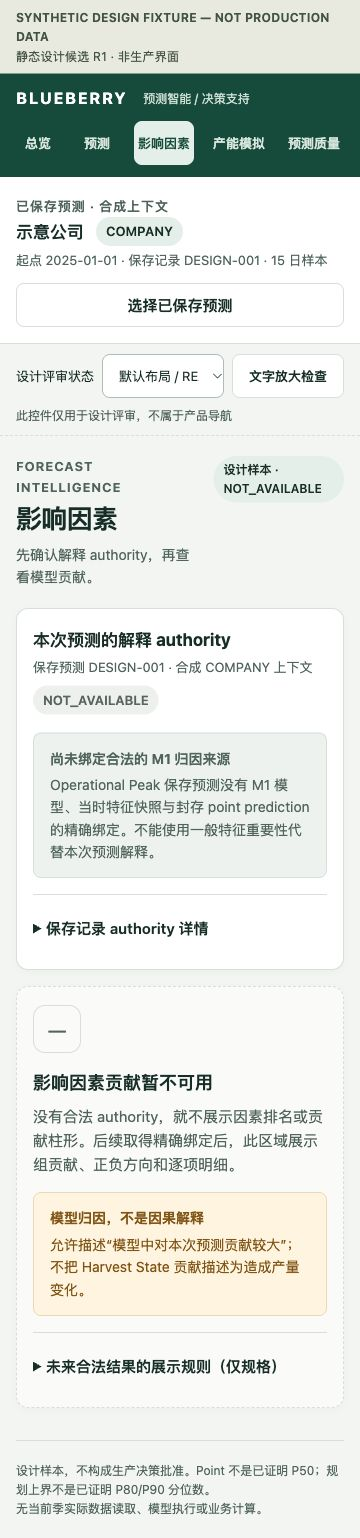
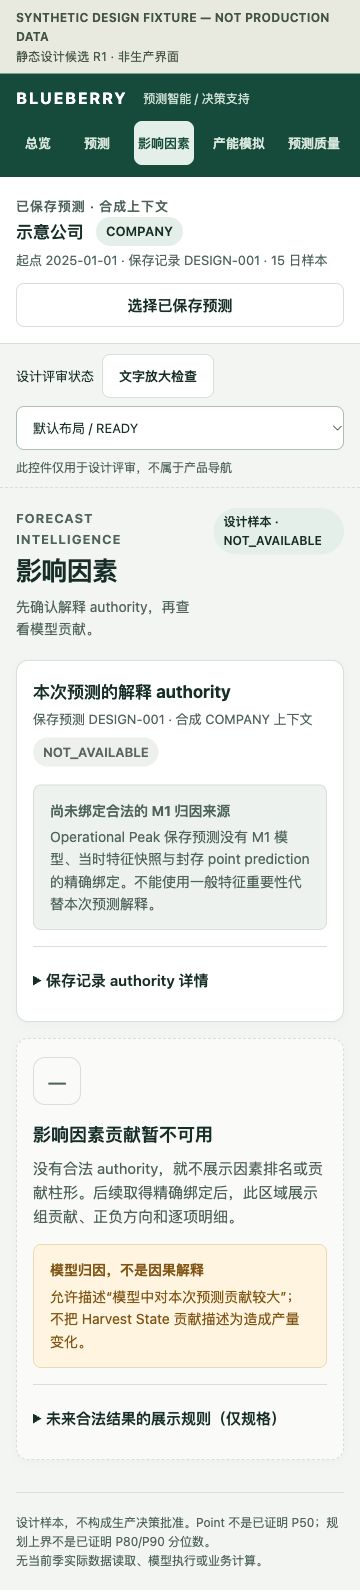
docs(v0.17): keep mobile design state labels fully readable

diff --git a/docs/v0-17/design/s4/prototype/styles.css b/docs/v0-17/design/s4/prototype/styles.css
@@ -3,7 +3,7 @@
 @media(max-width:1099px){.shell{display:block}.sidebar{width:100%;padding:12px 24px;display:block}.brand{display:flex;gap:16px;align-items:center;padding:0 0 10px}.brand b{font-size:16px}.sidebar-note{display:none}nav{display:flex;gap:8px}nav a{padding:9px 16px;min-height:44px}.nav-index{display:none}.context{padding:20px 24px}.review-bar{padding:10px 24px}main{padding:24px}.kpi{padding:16px}.kpi-value{font-size:28px}.columns{gap:16px}.panel{padding:20px}}
 @media(max-width:699px){.design-label{padding:8px 16px;font-size:12px}.design-label span{float:none;display:block}.sidebar{padding:12px 16px}.brand span{font-size:12px}nav{justify-content:space-between;gap:0}nav a{padding:9px 4px;font-size:13px;justify-content:center;min-width:44px}.context{padding:16px;display:block}.context button{margin-top:12px;width:100%}.context-title{font-size:17px}.review-bar{padding:10px 16px;flex-wrap:wrap;gap:8px}.review-bar span{flex-basis:100%;font-size:12px}.review-bar select{flex:1;max-width:none;min-width:0}main{padding:20px 16px}.page-heading{margin-bottom:20px}.page-heading>.badge{max-width:116px;font-size:12px}h1{font-size:26px}.page-heading p:last-child{font-size:14px}.kpis{grid-template-columns:repeat(2,minmax(0,1fr));gap:12px;margin-bottom:16px}.kpi{padding:16px 12px}.kpi-label{font-size:13px;min-height:42px}.kpi-value{font-size:28px}.kpi-value small{font-size:12px}.kpi-note{font-size:12px}.panel{padding:18px 16px;margin-bottom:16px}.panel-heading{gap:8px;flex-wrap:wrap}.panel-heading h2{font-size:17px}.columns{display:block;margin-bottom:16px}.columns .panel{height:auto;margin-bottom:16px}.chart-frame{height:225px}.legend{gap:8px;font-size:12px}.form-grid{grid-template-columns:1fr}.form-grid .wide{grid-column:auto}.desktop-extra{display:none}.data-table th,.data-table td{padding:10px 4px}.data-table{font-size:13px}.data-table button{font-size:13px;padding:4px}.comparison-table thead{display:none}.comparison-table,.comparison-table tbody,.comparison-table tr,.comparison-table td{display:block;width:100%}.comparison-table tr{border:1px solid var(--border);padding:12px;border-radius:8px;margin:12px 0}.comparison-table td{display:flex;justify-content:space-between;gap:12px;border:0;padding:5px 0;text-align:right}.comparison-table td:before{content:attr(data-label);color:var(--secondary);text-align:left}.coverage-row{grid-template-columns:110px 1fr 54px;gap:8px;font-size:13px}.scope-strip .badge{font-size:12px}.skeleton-grid{grid-template-columns:repeat(2,1fr)}dl{grid-template-columns:1fr;gap:4px}dd{margin-bottom:8px}.form-actions button{width:100%}dialog{padding:20px 16px}footer{font-size:12px}}
 [hidden]{display:none!important}p,caption,.help,.badge{overflow-wrap:anywhere}.comparison-table caption{width:100%;text-align:left}.comparison-table td{overflow-wrap:anywhere}#page-status{overflow-wrap:normal;word-break:normal}
-@media(max-width:699px){.comparison-table caption{display:block}.page-heading>#page-status{max-width:160px}}
+@media(max-width:699px){.comparison-table caption{display:block}.page-heading>#page-status{max-width:160px}.review-bar select{flex-basis:100%;order:2}.review-bar span{order:3}}
 .large-type body *{font-size:30px!important;overflow-wrap:anywhere}.large-type nav{flex-wrap:wrap}.large-type .brand{flex-wrap:wrap}.large-type .review-bar{flex-wrap:wrap}.large-type .page-heading{flex-wrap:wrap}.large-type .kpi-label{min-height:0}.large-type .coverage-row{grid-template-columns:1fr}.large-type .context{flex-wrap:wrap}.large-type .data-table{table-layout:fixed}.large-type .kpis{grid-template-columns:repeat(2,minmax(0,1fr))}.large-type .panel-heading .badge{flex-shrink:1}
 @media(max-width:699px){.large-type .kpis{grid-template-columns:1fr}.large-type .review-bar select{flex-basis:100%}.large-type .page-heading>.badge{max-width:none}}
 @media(prefers-reduced-motion:reduce){*{animation:none!important;transition:none!important;scroll-behavior:auto!important}}
